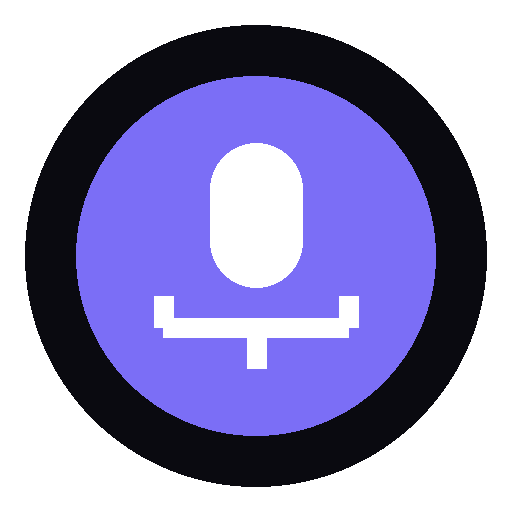
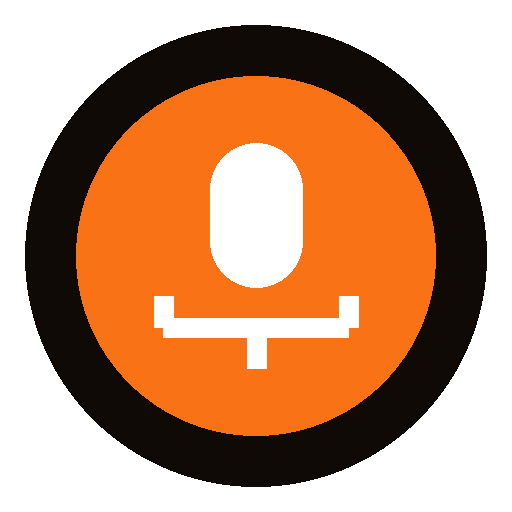
orange theme

diff --git a/index.html b/index.html
@@ -5,7 +5,7 @@
 <meta name="viewport" content="width=device-width, initial-scale=1.0, maximum-scale=1.0, user-scalable=no, viewport-fit=cover">
 <meta name="apple-mobile-web-app-capable" content="yes">
 <meta name="apple-mobile-web-app-status-bar-style" content="black-translucent">
-<meta name="theme-color" content="#0a0a10">
+<meta name="theme-color" content="#0f0a06">
 <title>Clip it, Chat</title>
 
 <!-- PWA -->
@@ -21,26 +21,26 @@
    DESIGN TOKENS
    ============================================================ */
 :root {
-  --bg: #0a0a10;
-  --bg2: #12121a;
-  --bg3: #1a1a24;
-  --surface: #1e1e2c;
-  --surface2: #252536;
+  --bg: #0f0a06;
+  --bg2: #16100a;
+  --bg3: #1e1610;
+  --surface: #241b12;
+  --surface2: #2c2218;
   --border: rgba(255,255,255,0.08);
   --border2: rgba(255,255,255,0.14);
 
-  --purple: #7b6ef6;
-  --purple-dim: rgba(123,110,246,0.18);
-  --purple-bright: #9d93ff;
-  --teal: #2ed8a8;
-  --teal-dim: rgba(46,216,168,0.15);
+  --purple: #f97316;
+  --purple-dim: rgba(249,115,22,0.18);
+  --purple-bright: #fb923c;
+  --teal: #fbbf24;
+  --teal-dim: rgba(251,191,36,0.15);
   --amber: #f0a832;
   --amber-dim: rgba(240,168,50,0.15);
   --red: #f05252;
 
-  --text: #f0edf8;
-  --muted: #8a87a0;
-  --hint: #4a4860;
+  --text: #fff8f0;
+  --muted: #a8906e;
+  --hint: #5c4a30;
 
   --r: 14px;
   --r-sm: 10px;
@@ -210,11 +210,11 @@ audio { width: 100%; }
   z-index: 2;
   cursor: pointer;
   transition: transform 0.12s, box-shadow 0.2s;
-  box-shadow: 0 0 0 0 rgba(123,110,246,0.4);
+  box-shadow: 0 0 0 0 rgba(249,115,22,0.4);
 }
 .mic-core:active { transform: scale(0.9); }
 .mic-core.recording { animation: micPulse 0.6s ease-in-out infinite; }
-@keyframes micPulse { 0%,100%{box-shadow:0 0 0 0 rgba(123,110,246,0.5)} 50%{box-shadow:0 0 0 18px rgba(123,110,246,0)} }
+@keyframes micPulse { 0%,100%{box-shadow:0 0 0 0 rgba(249,115,22,0.5)} 50%{box-shadow:0 0 0 18px rgba(249,115,22,0)} }
 
 .mic-core svg { width: 28px; height: 28px; stroke: #fff; fill: none; stroke-width: 2; stroke-linecap: round; stroke-linejoin: round; }
 
@@ -252,7 +252,7 @@ audio { width: 100%; }
   letter-spacing: -0.2px;
   flex-shrink: 0;
   transition: transform 0.1s, opacity 0.1s;
-  box-shadow: 0 4px 24px rgba(123,110,246,0.3);
+  box-shadow: 0 4px 24px rgba(249,115,22,0.3);
 }
 .clip-now-btn:active { transform: scale(0.97); opacity: 0.9; }
 
@@ -314,7 +314,7 @@ audio { width: 100%; }
    ============================================================ */
 .plan-banner {
   background: var(--purple-dim);
-  border: 0.5px solid rgba(123,110,246,0.3);
+  border: 0.5px solid rgba(249,115,22,0.3);
   border-radius: var(--r-lg);
   padding: 16px;
   margin-bottom: 14px;
@@ -389,7 +389,7 @@ input[type=range].srange::-webkit-slider-thumb {
   width: 18px; height: 18px; border-radius: 50%;
   background: var(--purple);
   cursor: pointer;
-  box-shadow: 0 0 0 3px rgba(123,110,246,0.25);
+  box-shadow: 0 0 0 3px rgba(249,115,22,0.25);
 }
 input[type=range].srange:disabled { opacity: 0.35; cursor: not-allowed; }
 input[type=range].srange:disabled::-webkit-slider-thumb { cursor: not-allowed; }
@@ -539,7 +539,7 @@ input[type=range].srange:disabled::-webkit-slider-thumb { cursor: not-allowed; }
 .paywall-glow {
   position: absolute; top: -60px; left: 50%; transform: translateX(-50%);
   width: 200px; height: 120px;
-  background: radial-gradient(ellipse, rgba(123,110,246,0.4) 0%, transparent 70%);
+  background: radial-gradient(ellipse, rgba(249,115,22,0.4) 0%, transparent 70%);
   pointer-events: none;
 }
 .paywall-title { font-size: 22px; font-weight: 700; text-align: center; letter-spacing: -0.5px; margin-bottom: 3px; }
@@ -562,7 +562,7 @@ input[type=range].srange:disabled::-webkit-slider-thumb { cursor: not-allowed; }
   background: var(--purple); border-radius: var(--r-lg);
   color: #fff; font-size: 15px; font-weight: 700;
   text-align: center; cursor: pointer; margin-bottom: 10px;
-  box-shadow: 0 4px 24px rgba(123,110,246,0.35);
+  box-shadow: 0 4px 24px rgba(249,115,22,0.35);
   transition: opacity 0.15s, transform 0.1s;
 }
 .paywall-upgrade:active { opacity: 0.85; transform: scale(0.98); }
@@ -628,7 +628,7 @@ input[type=range].srange:disabled::-webkit-slider-thumb { cursor: not-allowed; }
   border: 0.5px solid var(--border); border-radius: 20px;
   font-size: 11px; font-weight: 500; color: var(--text); cursor: pointer;
 }
-.notif-action.primary { background: var(--purple-dim); border-color: rgba(123,110,246,0.3); color: var(--purple-bright); }
+.notif-action.primary { background: var(--purple-dim); border-color: rgba(249,115,22,0.3); color: var(--purple-bright); }
 
 /* ============================================================
    AUDIO ELEMENT STYLE
@@ -1114,7 +1114,7 @@ function openClipModal() {
     const b = document.createElement('div');
     b.className = 'wv-bar';
     b.style.height = (18 + Math.random() * 64) + '%';
-    b.style.background = i >= trigPos ? '#7b6ef6' : '#4a4870';
+    b.style.background = i >= trigPos ? '#f97316' : '#4a4870';
     wf.appendChild(b);
   }
 
